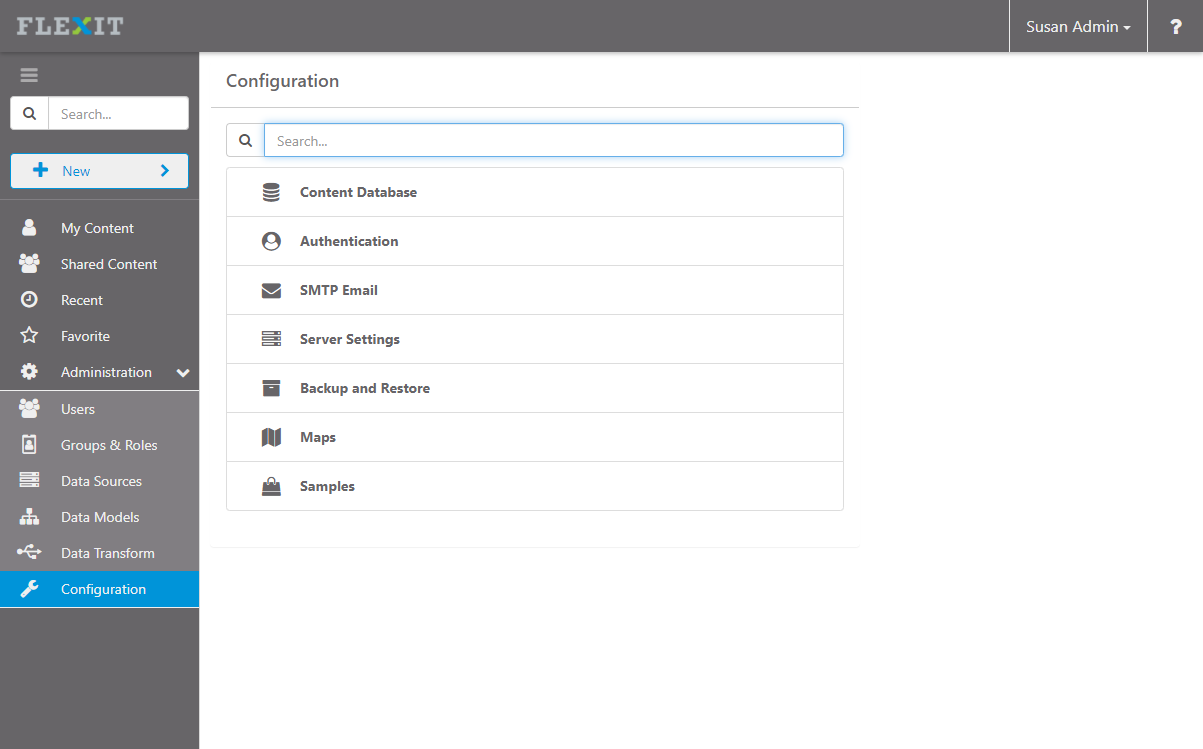
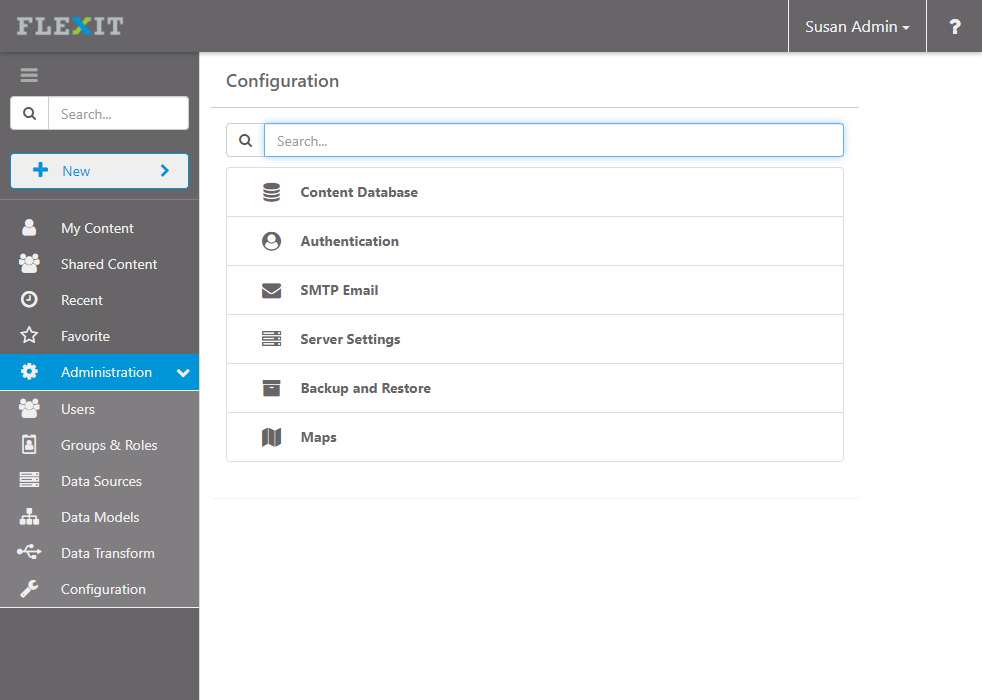
2021.10.001
Updates for version 2021.10.001

Changed region(s): [[0.0, 0.03, 1.0, 1.0], [0.0, 0.0, 0.1222, 0.06], [0.8554, 0.18, 0.8859, 0.21]]

diff --git a/docs/report.md b/docs/report.md
@@ -18,15 +18,15 @@ One you've selected a data model, you'll be taken to the Report design page.
 
 ## Report Design (ad-hoc)
 
-When starting a new report, you'll add fields from the left pane and add filters from the top pane. New reports start in "ad-hoc" mode, meaning that live data is retrieved as you add new fields and filters. You can exit "ad-hoc" mode by clicking the [*Builder Page*](#builder-page) button in the middle of a new analysis or from the report menu.
+When starting a new report, you'll add fields from the right pane and add filters from the top pane. New reports start in "ad-hoc" mode, meaning that live data is retrieved as you add new fields and filters. You can exit "ad-hoc" mode by clicking the [*Builder Page*](#builder-page) option from the menu in the top-right of the report.
 
 ![](/img/report/report_page.png)
 
 ### Add Fields
 
-From the *Fields* menu on the left, you can add fields by dragging, double-clicking, or right-clicking. As you bring fields into the working area, data will be displayed in a grid/table. You can visualize (chart) your data by simply clicking the *![](/img/report/viz_button.png)* button at the top-right of the grid.
+From the *Fields* menu on the right, you can add fields by dragging, double-clicking, or right-clicking. As you bring fields into the working area, data will be displayed in a grid/table. You can visualize (chart) your data by simply clicking any of the charts in the *Visualizations* panel on the right.
 
-When fields are already on a report, you can add new fields to specific areas of the grid or visualization by dragging, shown below:
+You can drag fields into `Data Fields` in the *Visualizations* panel, shown below:
 
 ![](/img/report/field_drag.gif)
 
@@ -40,7 +40,7 @@ Add filters to narrow your search and focus your data exploration. They also imp
 
 **Text/string**
 
-The text/string filter will allow you to include/exclude selected items or filter items that start with, end with, or contain certain text.
+The text/string filter will allow you to include/exclude selected items or filter items that start with, end with, or contain certain text. You can also filter a chosen number of items in the top or bottom of a specific measure (e.g. *Top 10 Country by Gold Medals*).
 
 ![](/img/report/filter_text.png)
 
@@ -225,21 +225,9 @@ To access grid settings, click the *![](/img/report/grid_config_button.png)* but
 
 ### Charts (Visualization)
 
-Once you're done exploring your data and are ready to explain your data, there are a few ways you can show a chart/visualization.
-
-1. Clicking the *![](/img/report/viz_button.png)* button at the top-right of a grid, which will give you a Viz quick selection dropdown, shown here:
-
-    ![](/img/vizzes.png)
-
-2. Selecting *Chart & Grid* or *Chart Only* in the report menu, shown here:
-
-    ![](/img/report/chart_and_grid.png)
-
-Once you have a visualization displayed, you can very quickly change the chart type and all of it's properties from the *![](/img/report/viz_button.png)* at the top-right of the viz, shown here:
+Once you're done exploring your data and are ready to explain your data, choose one of the many vizzes in the *Visualization Panel*. Each viz has it's own *Data Fields* and configuration options that can be changed below. See the [Visualization Guide](viz/guide) for in-depth details about the different vizzes.
 
 ![](/img/report/viz_types.gif)
-
-
 
 ### Report Options
 

diff --git a/docs/dashboard.md b/docs/dashboard.md
@@ -27,7 +27,7 @@ To build a dashboard, add [Cards](#cards) to the design work area and then add w
 
 ## Toolbar
 
-The dashboard toolbar allows you to *Save*, *Share*, add to *Favorites*, and add [Cards](#cards). Cards are dashboard content that can be visualizations, grid/tables, filters, or rich text/html. In the dashboard toolbar, you'll need to click *Edit* to enter design mode, which allows you to add, move, and resize cards.
+The dashboard toolbar allows you to *Save*, *Share*, add to *Favorites*, add [Cards](#cards), and *Configure*. Cards are dashboard content that can be visualizations, grid/tables, filters, or rich text/html. In the dashboard toolbar, you'll need to click *Edit* to enter design mode, which allows you to add, move, and resize cards.
 
 *![](/img/dashboard/toolbar.png)*
 
@@ -82,15 +82,9 @@ The card toolbar appears in the top-right of a card when you hover your cursor o
 
 When running dashboards, you are no longer in [Design Mode](#dashboard-design). Although you can no longer move, resize, or edit cards, there are many interactions available.
 
-In the top-right of each card, you can change to any type of visualization, shown here:
+In the top-right of each card, you can click the *![](/img/dashboard/card_newwindow.png)* New Window button in the [card toolbar](#card-toolbar), which opens the card in a new tab.
 
-*![](/img/dashboard/viz_selector.png)*
-
-You can also click the *![](/img/dashboard/card_newwindow.png)* New Window button in the [card toolbar](#card-toolbar), which opens the card in a new tab.
-
-You can also change metrics, series, x-axis, and more from the title. In the example below, you can click on *Total Medals* and change it to *Gold Medals* to see a different metric:
-
-*![](/img/dashboard/changedata.png)*
+Next to the Open in New Window icon, the filter icon allows you to quickly see what filters are applied to the specific card.
 
 Lastly, you can interact with the visualization just like any other report by hovering, clicking, and so on.
 

diff --git a/docs/new.md b/docs/new.md
@@ -9,6 +9,25 @@ sidebar_label: Release History
 
 This is a full list of new features, bug fixes, and other items for all versions of FlexIt Analytics. The version number is based on the year, month and number of release, such as 2018.09.001 (i.e. [Year].[Month].[Release] being the first release of September 2018.
 
+## 2021.10.001 - Visualization Overhaul
+* Complete visualization overhaul
+* Advanced viz configuration
+* 6 new vizzes: Column and Line, Chord, Gantt, Stream, Waterfall, Histogram
+* Improved field drag-and-drop
+* Improved content backup and restore
+* SQL Editor improvements
+
+## 2021.06.001 - Minor Security Enhancements
+* Security enhancements
+* Minor fixes to drills
+* Filter improvements
+
+## 2021.05.001 - Scatterplot Timeline
+* Added scatterplot timeline and marker size
+* Enhancements to scatterplot, sankey, heatmap, word cloud
+* Enhancements to top/bottom filters
+* Oracle BI and PeopleSoft connector enhancements
+
 ## 2021.02.001 - Excel/CSV Upload, Highlight Grid
 * Upload Excel/CSV to database or instant analysis
 * Added Highlight/Heatmap feature to grid

diff --git a/docs/readme.md b/docs/readme.md
@@ -62,8 +62,8 @@ OK, let's get started:
 
 1.  Click on the *![](/img/portal/new.png)* button in the portal and select *New Analysis*.
 2.  Select the **Samples** data model
-3.  From **Fields** in the left panel, add *Country*, *Host Year*, and *Gold Medals* by double-clicking, drag-and-drop, or search
-4.  In the top-right, click on the *![](/img/report/viz_button.png)* to try different visualizations
+3.  From **Fields** in the right panel, add *Country*, *Host Year*, and *Gold Medals* by double-clicking, drag-and-drop, or search
+4.  Try different visualizations in the **Visualizations** panel on the right
 5.  Now say "wow, that was easy!". Save your report, or keep making it great...
 
 > Check out the [Reporting User Guide](report.md) to learn everything about creating analyses

diff --git a/docs/administration.md b/docs/administration.md
@@ -11,7 +11,7 @@ sidebar_label: Administration
 
 Administration is done in the FlexIt web application as shown here:
 
-![](/img/admin/admin.png)
+![](/img/admin/configuration.png)
 
 ## User Management
 
